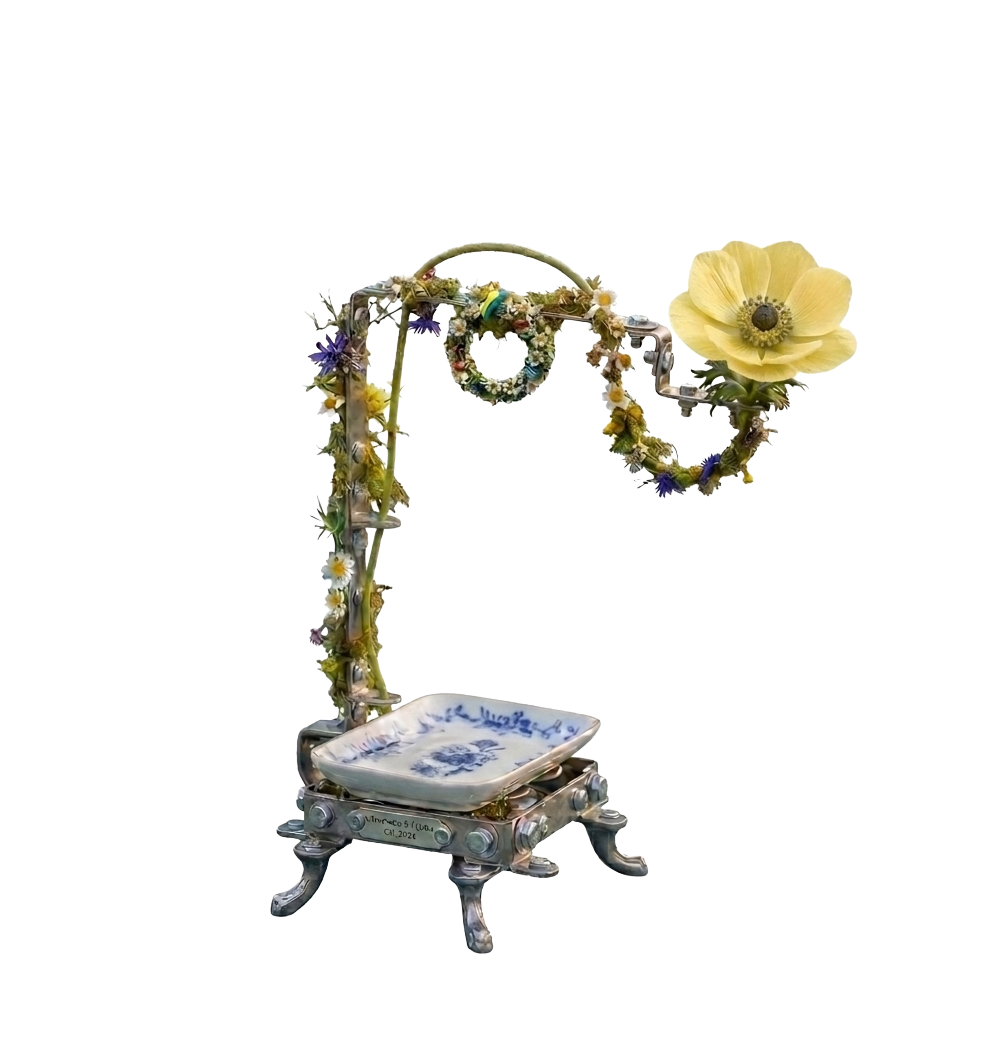
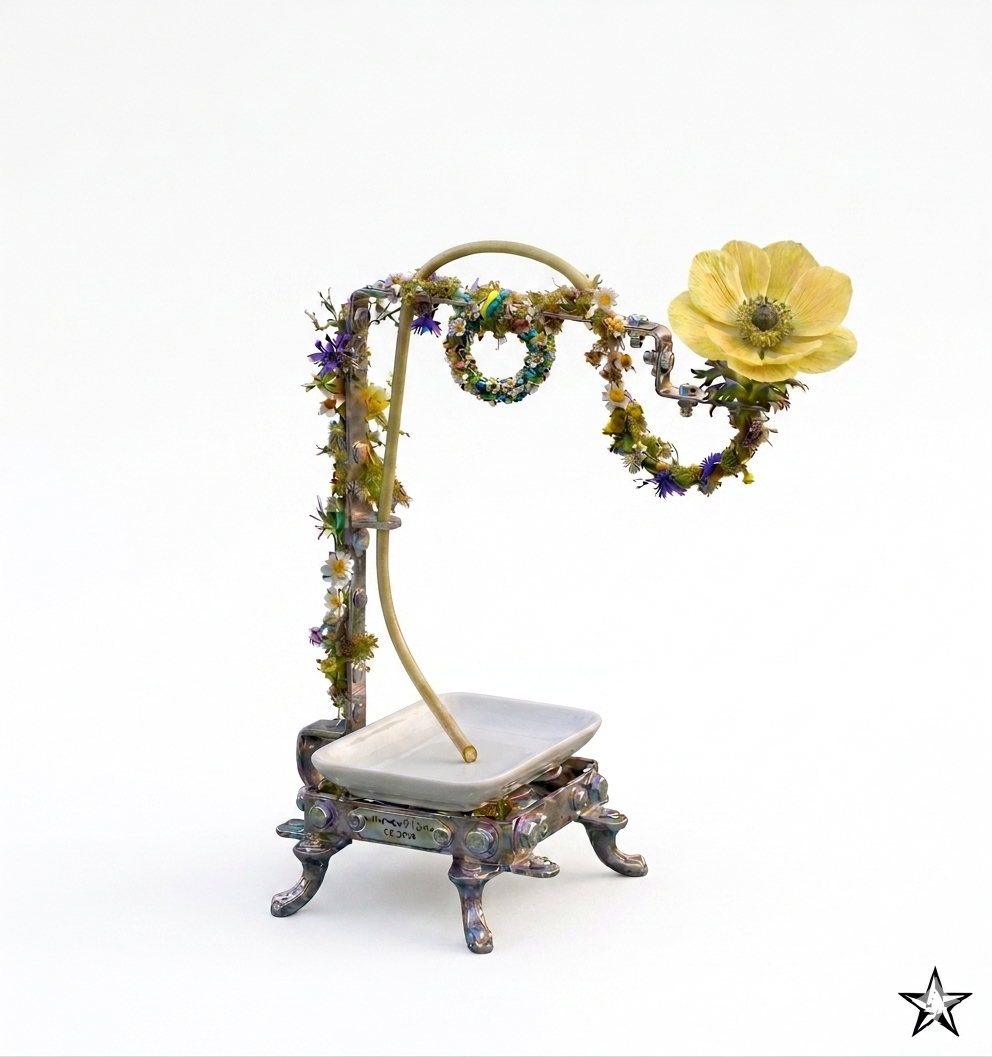
Stockholm: neues Bild + neuer Flyer für 28.05 Mai-Salon
Stockholm:
- stockholm_flower_midsummer.png aktualisiert (neues Gemini-Bild,
  feinere Komposition, kleinerer Footprint)

Neuer Flyer /flyer-may-28/:
- A5-Portrait Print-Layout für den 28. Mai 2026
- Konversions-fokussiert: großes Datum (28), eyebrow „Du bist
  eingeladen", Titel, italic Frage des Abends, Logistik-dl mit
  Ort/Format/Bring/Ticket-Preis (78 €)
- QR-Code (qrserver.com) führt zu salon-ai.eu/#events
- 3 Stats im Footer („1 Abend · 0 Vorkenntnisse · Experts")
- @user A5 portrait für saubere Drucke, Print-Button onscreen
  (versteckt im Print via @user print)
- Brand-Identität: Playfair Display + DM Sans + Navy/Accent

Changed region(s): [[0.25, 0.2185, 0.875, 0.9054], [0.0, 0.9054, 1.0, 1.0], [0.7812, 0.2185, 0.8125, 0.2498]]

diff --git a/flyer-may-28/index.html b/flyer-may-28/index.html
@@ -1,0 +1,331 @@
+<!DOCTYPE html>
+<html lang="de">
+<head>
+<meta charset="UTF-8">
+<meta name="viewport" content="width=device-width, initial-scale=1.0">
+<meta name="robots" content="noindex, nofollow">
+<title>Salon AI Dinner · 28. Mai 2026 · München (Flyer)</title>
+<link rel="preconnect" href="https://fonts.googleapis.com">
+<link rel="preconnect" href="https://fonts.gstatic.com" crossorigin>
+<link href="https://fonts.googleapis.com/css2?family=Playfair+Display:ital,wght@0,400;0,700;1,400;1,700&family=DM+Sans:wght@400;500;600;700&display=swap" rel="stylesheet">
+<style>
+  :root {
+    --navy: #1B2E4A;
+    --navy-deep: #0F1E33;
+    --accent: #003399;
+    --sky-deep: #6B90AD;
+    --sky-light: #EDF4FA;
+    --muted: #6B7280;
+    --paper: #FAFAF8;
+    --rule: rgba(27,46,74,0.16);
+  }
+
+  *, *::before, *::after { box-sizing: border-box; margin: 0; padding: 0; }
+  html, body { background: #E5E7EB; font-family: 'DM Sans', system-ui, sans-serif; color: var(--navy); }
+
+  /* A5 portrait — 148mm × 210mm — sized for print */
+  .flyer {
+    width: 148mm;
+    height: 210mm;
+    margin: 24px auto;
+    background: var(--paper);
+    color: var(--navy);
+    box-shadow: 0 10px 36px rgba(15,30,51,0.18);
+    position: relative;
+    overflow: hidden;
+    padding: 16mm 14mm 14mm;
+    display: flex;
+    flex-direction: column;
+    gap: 0;
+  }
+
+  /* Decorative accent strip top */
+  .flyer::before {
+    content: '';
+    position: absolute;
+    top: 0; left: 0; right: 0;
+    height: 5mm;
+    background: var(--accent);
+  }
+
+  /* Salon AI brand mark */
+  .brand {
+    font-family: 'Playfair Display', serif;
+    font-size: 14px;
+    font-weight: 700;
+    color: var(--navy);
+    letter-spacing: 0.4px;
+    margin-bottom: 6mm;
+  }
+  .brand .eu {
+    color: var(--sky-deep);
+    font-weight: 400;
+    font-style: italic;
+  }
+
+  /* Eyebrow — "Du bist eingeladen" */
+  .eyebrow {
+    font-size: 10px;
+    text-transform: uppercase;
+    letter-spacing: 2.6px;
+    font-weight: 700;
+    color: var(--accent);
+    margin-bottom: 4mm;
+  }
+
+  /* Big date block */
+  .date-block {
+    display: flex;
+    align-items: baseline;
+    gap: 6mm;
+    margin-bottom: 5mm;
+  }
+  .date-day {
+    font-family: 'Playfair Display', serif;
+    font-size: 72pt;
+    font-weight: 700;
+    line-height: 0.85;
+    color: var(--navy-deep);
+    letter-spacing: -0.04em;
+  }
+  .date-meta {
+    display: flex;
+    flex-direction: column;
+    gap: 2mm;
+  }
+  .date-month {
+    font-family: 'Playfair Display', serif;
+    font-size: 22pt;
+    font-weight: 400;
+    font-style: italic;
+    color: var(--navy);
+    line-height: 1;
+    letter-spacing: -0.01em;
+  }
+  .date-year {
+    font-size: 10pt;
+    color: var(--muted);
+    letter-spacing: 1.4px;
+  }
+  .date-weekday {
+    font-size: 9.5pt;
+    color: var(--accent);
+    text-transform: uppercase;
+    letter-spacing: 2.2px;
+    font-weight: 700;
+  }
+
+  /* Title */
+  .title {
+    font-family: 'Playfair Display', serif;
+    font-size: 22pt;
+    font-weight: 700;
+    line-height: 1.12;
+    color: var(--navy-deep);
+    letter-spacing: -0.014em;
+    margin-bottom: 6mm;
+  }
+
+  /* Pull question — the conceptual hook */
+  .question {
+    border-left: 2px solid var(--accent);
+    padding: 3mm 4mm;
+    background: var(--sky-light);
+    margin-bottom: 6mm;
+    border-radius: 0 2mm 2mm 0;
+  }
+  .question p {
+    font-family: 'Playfair Display', serif;
+    font-style: italic;
+    font-size: 12pt;
+    line-height: 1.35;
+    color: var(--navy-deep);
+  }
+
+  /* Practical info */
+  .info {
+    display: grid;
+    grid-template-columns: 1fr;
+    gap: 2.5mm;
+    margin-bottom: 6mm;
+  }
+  .info-row {
+    display: grid;
+    grid-template-columns: 22mm 1fr;
+    gap: 4mm;
+    font-size: 10pt;
+    line-height: 1.4;
+  }
+  .info-row dt {
+    font-weight: 700;
+    color: var(--accent);
+    letter-spacing: 1.4px;
+    text-transform: uppercase;
+    font-size: 8.5pt;
+    padding-top: 1mm;
+  }
+  .info-row dd {
+    color: var(--navy);
+  }
+  .info-row dd .price {
+    font-family: 'Playfair Display', serif;
+    font-weight: 700;
+    font-size: 11.5pt;
+    color: var(--navy-deep);
+  }
+
+  /* Conversion CTA + QR */
+  .cta-block {
+    margin-top: auto;
+    padding-top: 5mm;
+    border-top: 1px solid var(--rule);
+    display: grid;
+    grid-template-columns: 1fr 28mm;
+    gap: 6mm;
+    align-items: center;
+  }
+  .cta-text {
+    display: flex;
+    flex-direction: column;
+    gap: 1.5mm;
+  }
+  .cta-text strong {
+    font-family: 'Playfair Display', serif;
+    font-size: 13pt;
+    font-weight: 700;
+    color: var(--navy-deep);
+    letter-spacing: -0.008em;
+    line-height: 1.2;
+  }
+  .cta-text .scan {
+    font-size: 9pt;
+    color: var(--muted);
+    letter-spacing: 0.3px;
+    line-height: 1.4;
+  }
+  .cta-text .url {
+    font-size: 9pt;
+    color: var(--accent);
+    font-weight: 600;
+    letter-spacing: 0.2px;
+    margin-top: 1mm;
+  }
+  .qr {
+    width: 28mm;
+    height: 28mm;
+    display: block;
+    border: 1px solid var(--rule);
+    border-radius: 1mm;
+    background: #fff;
+    padding: 1mm;
+  }
+  .qr img { display: block; width: 100%; height: 100%; }
+
+  /* Bottom stats strip */
+  .stats {
+    margin-top: 4mm;
+    padding-top: 3mm;
+    border-top: 1px solid var(--rule);
+    display: flex;
+    justify-content: space-between;
+    gap: 3mm;
+    font-size: 8pt;
+    color: var(--muted);
+    letter-spacing: 0.4px;
+    font-style: italic;
+  }
+  .stats span strong {
+    font-style: normal;
+    font-weight: 700;
+    color: var(--navy);
+  }
+
+  /* Print rules — A5 portrait, no margins, hide screen chrome */
+  @page { size: A5 portrait; margin: 0; }
+  @media print {
+    html, body { background: #fff; }
+    .flyer { margin: 0; box-shadow: none; width: 100%; height: 100vh; }
+    .print-controls { display: none !important; }
+  }
+
+  .print-controls {
+    position: fixed;
+    bottom: 20px; right: 20px;
+    background: var(--navy);
+    color: #fff;
+    border: none;
+    padding: 10px 18px;
+    border-radius: 999px;
+    font-family: 'DM Sans', sans-serif;
+    font-size: 13px;
+    font-weight: 600;
+    cursor: pointer;
+    box-shadow: 0 6px 18px rgba(15,30,51,0.25);
+    letter-spacing: 0.2px;
+  }
+  .print-controls:hover { background: var(--accent); }
+</style>
+</head>
+<body>
+
+<div class="flyer">
+  <p class="brand">Salon <span class="eu">AI</span></p>
+
+  <p class="eyebrow">Du bist eingeladen</p>
+
+  <div class="date-block">
+    <div class="date-day">28</div>
+    <div class="date-meta">
+      <div class="date-month">Mai</div>
+      <div class="date-year">2026</div>
+      <div class="date-weekday">Donnerstag · 18:00</div>
+    </div>
+  </div>
+
+  <h1 class="title">Salon AI Dinner — München</h1>
+
+  <div class="question">
+    <p>„Welche KI kann nur von Europäer:innen gebaut werden?"</p>
+  </div>
+
+  <dl class="info">
+    <div class="info-row">
+      <dt>Ort</dt>
+      <dd>Luitpoldblock, München · 18:00 Einlass · 18:15 Start</dd>
+    </div>
+    <div class="info-row">
+      <dt>Format</dt>
+      <dd>Modern Middle Eastern Cuisine · Drinks inklusive</dd>
+    </div>
+    <div class="info-row">
+      <dt>Bring</dt>
+      <dd>Laptop. Mehr nicht — keine Vorkenntnisse nötig.</dd>
+    </div>
+    <div class="info-row">
+      <dt>Ticket</dt>
+      <dd><span class="price">78 €</span> · 12 Plätze · letzter öffentlicher Salon</dd>
+    </div>
+  </dl>
+
+  <div class="cta-block">
+    <div class="cta-text">
+      <strong>Sichere deinen Platz.</strong>
+      <span class="scan">QR scannen → direkt zum Ticket</span>
+      <span class="url">salon-ai.eu/#events</span>
+    </div>
+    <div class="qr">
+      <img src="https://api.qrserver.com/v1/create-qr-code/?size=300x300&data=https%3A%2F%2Fsalon-ai.eu%2F%23events&color=1B2E4A&margin=4" alt="QR code to salon-ai.eu/#events" />
+    </div>
+  </div>
+
+  <div class="stats">
+    <span><strong>1 Abend</strong> · KI-Assistent gebaut</span>
+    <span><strong>0 Vorkenntnisse</strong> nötig</span>
+    <span><strong>Experts</strong> im Raum</span>
+  </div>
+</div>
+
+<button class="print-controls" onclick="window.print()">Drucken / Print →</button>
+
+</body>
+</html>